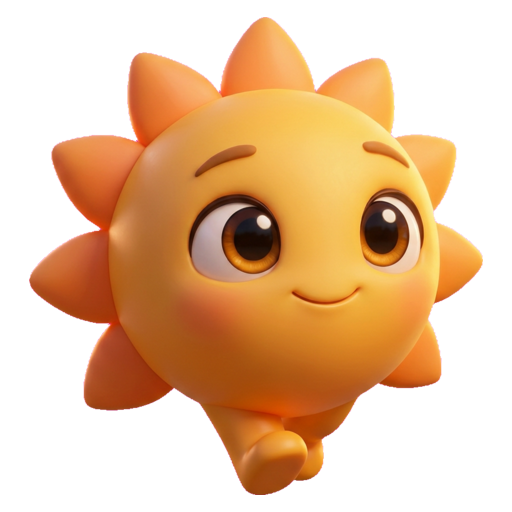
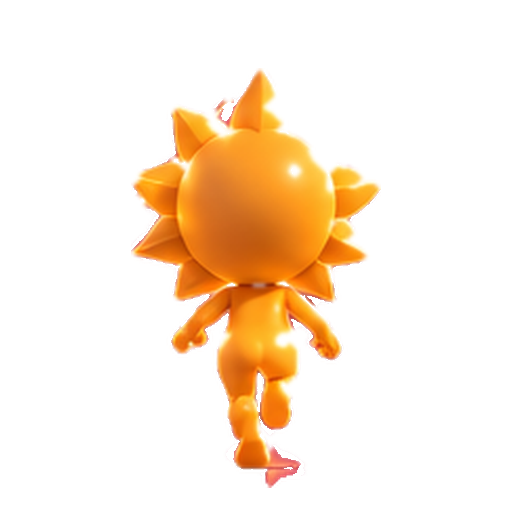
feat(game): P4 — authoritative sun-head run frames + idle-on-launch start gate
- Replace run cycle with the approved authoritative 8-frame sun-head Soul
  rear-view set (512x512 RGBA; 1.77MB -> 0.82MB raw set)
- Idle-on-launch: scene alive with Soul standing still until first tap;
  time/score/spawning frozen (mandatory start behavior)
- startRun() idempotent exactly-once; first tap/drag swallowed (never a
  lane move); pause/terminal-state guarded; replay returns to idle
- Static idle pose frame while awaiting start; 12 fps cycle after start;
  runCycleFitBoost 1.85 -> 1.22 (humanoid silhouette calibration)
- Tests: new first_tap_start_test (idle, exact-once start, no lane move,
  drag-start); smoke test updated for the start contract

diff --git a/test/widget/first_tap_start_test.dart b/test/widget/first_tap_start_test.dart
@@ -1,0 +1,96 @@
+import 'package:flame/game.dart';
+import 'package:flutter/material.dart';
+import 'package:flutter_test/flutter_test.dart';
+import 'package:soul_dusk_run/app.dart';
+import 'package:soul_dusk_run/game/soul_dusk_run_game.dart';
+
+/// P4 mandatory start behavior (acceptance criteria §6):
+/// A1) freshly entered game scene is alive AND idle — Soul standing still,
+///     time/score/travel frozen, no automatic start.
+/// A2) the first tap starts the run exactly once; the starting input is not
+///     a lane move; further taps act normally and never restart the run.
+void main() {
+  testWidgets('game waits idle for first tap, then runs exactly once',
+      (tester) async {
+    tester.view.physicalSize = const Size(1080, 2400);
+    tester.view.devicePixelRatio = 3.0;
+    addTearDown(tester.view.reset);
+
+    await tester.pumpWidget(const SoulDuskRunApp());
+    await tester.pump();
+    await tester.tap(find.text('PLAY'));
+
+    // A1: settle into the scene; assert still idle (auto-start would break
+    // this — the game ticker pumps real frames here).
+    for (var i = 0; i < 120; i++) {
+      await tester.pump(const Duration(milliseconds: 16));
+    }
+    final gameWidget = tester.widget<GameWidget<SoulDuskRunGame>>(
+      find.byType(GameWidget<SoulDuskRunGame>),
+    );
+    final game = gameWidget.game!;
+    expect(game.isRunStarted, isFalse);
+    expect(game.travelled, equals(0));
+    expect(game.elapsedSeconds, equals(0));
+    expect(game.score.totalScore, equals(0));
+    expect(game.paused, isFalse);
+    expect(game.isEnded, isFalse);
+    expect(game.player.isMounted, isTrue);
+    expect(tester.takeException(), isNull);
+
+    // A2a: first tap starts the run (swallowed — not a lane move).
+    final laneBefore = game.laneSystem.lane;
+    await tester.tapAt(const Offset(120, 400)); // left half
+    for (var i = 0; i < 30; i++) {
+      await tester.pump(const Duration(milliseconds: 16));
+    }
+    expect(game.isRunStarted, isTrue);
+    expect(game.laneSystem.lane, equals(laneBefore),
+        reason: 'starting tap must not change lanes');
+    expect(game.travelled, greaterThan(0),
+        reason: 'world must move after the first tap');
+
+    // A2b: run progression continues; second tap DOES move lanes now.
+    await tester.tapAt(const Offset(120, 400)); // left half -> lane left
+    for (var i = 0; i < 20; i++) {
+      await tester.pump(const Duration(milliseconds: 16));
+    }
+    expect(game.laneSystem.lane, equals(laneBefore - 1),
+        reason: 'post-start taps route to lane moves');
+
+    // A2c: direct double start calls are idempotent (no restart/duplicate).
+    game.startRun();
+    game.startRun();
+    expect(game.isRunStarted, isTrue);
+    expect(game.isEnded, isFalse);
+    expect(tester.takeException(), isNull);
+  });
+
+  testWidgets('gesture-tap routing: first drag starts run, not a lane move',
+      (tester) async {
+    tester.view.physicalSize = const Size(1080, 2400);
+    tester.view.devicePixelRatio = 3.0;
+    addTearDown(tester.view.reset);
+
+    await tester.pumpWidget(const SoulDuskRunApp());
+    await tester.pump();
+    await tester.tap(find.text('PLAY'));
+    for (var i = 0; i < 60; i++) {
+      await tester.pump(const Duration(milliseconds: 16));
+    }
+    final game = tester
+        .widget<GameWidget<SoulDuskRunGame>>(
+            find.byType(GameWidget<SoulDuskRunGame>))
+        .game!;
+    expect(game.isRunStarted, isFalse);
+
+    await tester.dragFrom(const Offset(180, 400), const Offset(120, 0));
+    for (var i = 0; i < 20; i++) {
+      await tester.pump(const Duration(milliseconds: 16));
+    }
+    expect(game.isRunStarted, isTrue);
+    expect(game.laneSystem.lane, equals(1),
+        reason: 'starting drag must not lane-jump the player');
+    expect(tester.takeException(), isNull);
+  });
+}

diff --git a/lib/game/soul_dusk_run_game.dart b/lib/game/soul_dusk_run_game.dart
@@ -61,10 +61,17 @@ class SoulDuskRunGame extends FlameGame with HasCollisionDetection {
   bool _ended = false;
   int _runNumber = 0;
 
+  /// P4 start gate: the scene is alive with Soul standing still until the
+  /// player's first tap. Time, score, spawning and difficulty must NOT
+  /// advance while awaiting the first input (mandatory start behavior).
+  bool _runStarted = false;
+
   double get elapsedSeconds => _elapsedSeconds;
   double get travelled => _travelled;
   bool get isEnded => _ended;
-  double get currentSpeed => difficulty.speedAt(_elapsedSeconds);
+  bool get isRunStarted => _runStarted;
+  double get currentSpeed =>
+      _runStarted ? difficulty.speedAt(_elapsedSeconds) : 0;
 
   // ---------------------------------------------------------------
   // 2.5D projection helpers (shared by the scene and all entities).
@@ -177,7 +184,7 @@ class SoulDuskRunGame extends FlameGame with HasCollisionDetection {
   @override
   void update(double dt) {
     super.update(dt);
-    if (_ended) {
+    if (_ended || !_runStarted) {
       return;
     }
 
@@ -194,15 +201,29 @@ class SoulDuskRunGame extends FlameGame with HasCollisionDetection {
     _hudText.text = _hudString;
   }
 
-  String get _hudString =>
-      'Score: ${score.totalScore}   Orbs: ${score.orbsCollected}';
+  String get _hudString => _runStarted
+      ? 'Score: ${score.totalScore}   Orbs: ${score.orbsCollected}'
+      : 'TAP TO RUN';
 
   // --------------------------------------------------------------- gameplay
 
+  /// First-input start. Transitions Soul from standing idle to running and
+  /// activates gameplay exactly once. Subsequent calls are no-ops, so the
+  /// starting tap can never double-start or restart the run. The starting
+  /// input is intentionally NOT a lane move (handled at the gesture layer).
+  void startRun() {
+    if (_runStarted || _ended || paused) {
+      return;
+    }
+    _runStarted = true;
+    _hudText.text = _hudString;
+  }
+
   /// Lane-move intent from the gesture layer. [direction] < 0 = left,
-  /// [direction] > 0 = right.
+  /// [direction] > 0 = right. Ignored before the run starts (the first
+  /// input starts the run; it must not move lanes).
   void moveLane(int direction) {
-    if (_ended || paused) {
+    if (_ended || paused || !_runStarted) {
       return;
     }
     if (direction < 0) {
@@ -288,6 +309,9 @@ class SoulDuskRunGame extends FlameGame with HasCollisionDetection {
     _distanceSinceWave = 0;
     _distanceToNextWave = GameConfig.firstWaveDistance;
     _ended = false;
+    // Replay returns to the standing-idle state: the next run also begins
+    // with a deliberate tap (same start contract as a fresh session).
+    _runStarted = false;
 
     overlays.remove(gameOverOverlayId);
     overlays.remove(pauseOverlayId);

diff --git a/test/widget/game_screen_smoke_test.dart b/test/widget/game_screen_smoke_test.dart
@@ -31,6 +31,27 @@ void main() {
       await tester.pump(const Duration(milliseconds: 16));
     }
 
+    // Step 2b: P4 start contract — the scene is alive but the run has NOT
+    // begun yet: Soul stands idle until the first tap.
+    {
+      final gameWidgetPre =
+          tester.widget<GameWidget<SoulDuskRunGame>>(
+        find.byType(GameWidget<SoulDuskRunGame>),
+      );
+      final gamePre = gameWidgetPre.game!;
+      expect(gamePre.isRunStarted, isFalse,
+          reason: 'run must await the first tap');
+      expect(gamePre.travelled, equals(0),
+          reason: 'world/score must not progress before the first tap');
+    }
+
+    // Step 2c: first tap starts the run exactly once (and is swallowed —
+    // it must not move lanes).
+    await tester.tapAt(const Offset(180, 400));
+    for (var i = 0; i < 90; i++) {
+      await tester.pump(const Duration(milliseconds: 16));
+    }
+
     // Step 3: nothing in the startup/render path may throw.
     final exception = tester.takeException();
     expect(exception, isNull,

diff --git a/lib/game/config/game_config.dart b/lib/game/config/game_config.dart
@@ -131,9 +131,13 @@ class GameConfig {
   /// Playback rate of the run cycle.
   static const double runCycleFps = 12;
 
-  /// Extra fit factor for run frames. The frames carry a generous
-  /// transparent margin (character ≈ 53% of the 512×512 plate) while the
-  /// hero plate is cropped tight; this boost normalizes the drawn
-  /// silhouette to the established hero size.
-  static const double runCycleFitBoost = 1.85;
+  /// Frame index shown while Soul stands idle awaiting the first tap
+  /// (frame 2 = weight-down pose: upright, both feet planted).
+  static const int runIdleFrame = 1;
+
+  /// Extra fit factor for run frames. The P3C frames hold the chibi
+  /// humanoid silhouette at ≈ 76–82% of the 512×512 plate height (vs ≈
+  /// 53% for the retired ball-design frames → boost scale ≈53/80); this
+  /// boost normalizes the drawn silhouette to the established hero size.
+  static const double runCycleFitBoost = 1.22;
 }

diff --git a/lib/ui/screens/game_screen.dart b/lib/ui/screens/game_screen.dart
@@ -53,9 +53,19 @@ class _GameScreenState extends State<GameScreen> with WidgetsBindingObserver {
           return GestureDetector(
             behavior: HitTestBehavior.opaque,
             onHorizontalDragEnd: (details) {
+              // First input of a session starts the run and is swallowed —
+              // it must not double as a lane move (start contract).
+              if (!_game.isRunStarted) {
+                _game.startRun();
+                return;
+              }
               _gestures.onHorizontalDragEnd(details.primaryVelocity ?? 0.0);
             },
             onTapUp: (details) {
+              if (!_game.isRunStarted) {
+                _game.startRun();
+                return;
+              }
               _gestures.onTapUp(
                 details.localPosition.dx,
                 constraints.maxWidth,

diff --git a/lib/game/components/soul_player.dart b/lib/game/components/soul_player.dart
@@ -74,8 +74,12 @@ class SoulPlayer extends PositionComponent
     super.render(canvas);
     final frames = game.runFrames;
     if (frames.isNotEmpty) {
-      final index =
-          (_elapsed * GameConfig.runCycleFps).floor() % frames.length;
+      // P4 start behavior: before the first tap Soul stands still on one
+      // static pose frame (weight-down = upright, both feet planted);
+      // the running cycle only plays after the run starts.
+      final index = game.isRunStarted
+          ? (_elapsed * GameConfig.runCycleFps).floor() % frames.length
+          : GameConfig.runIdleFrame;
       _renderFrame(canvas, frames[index]);
       return;
     }
